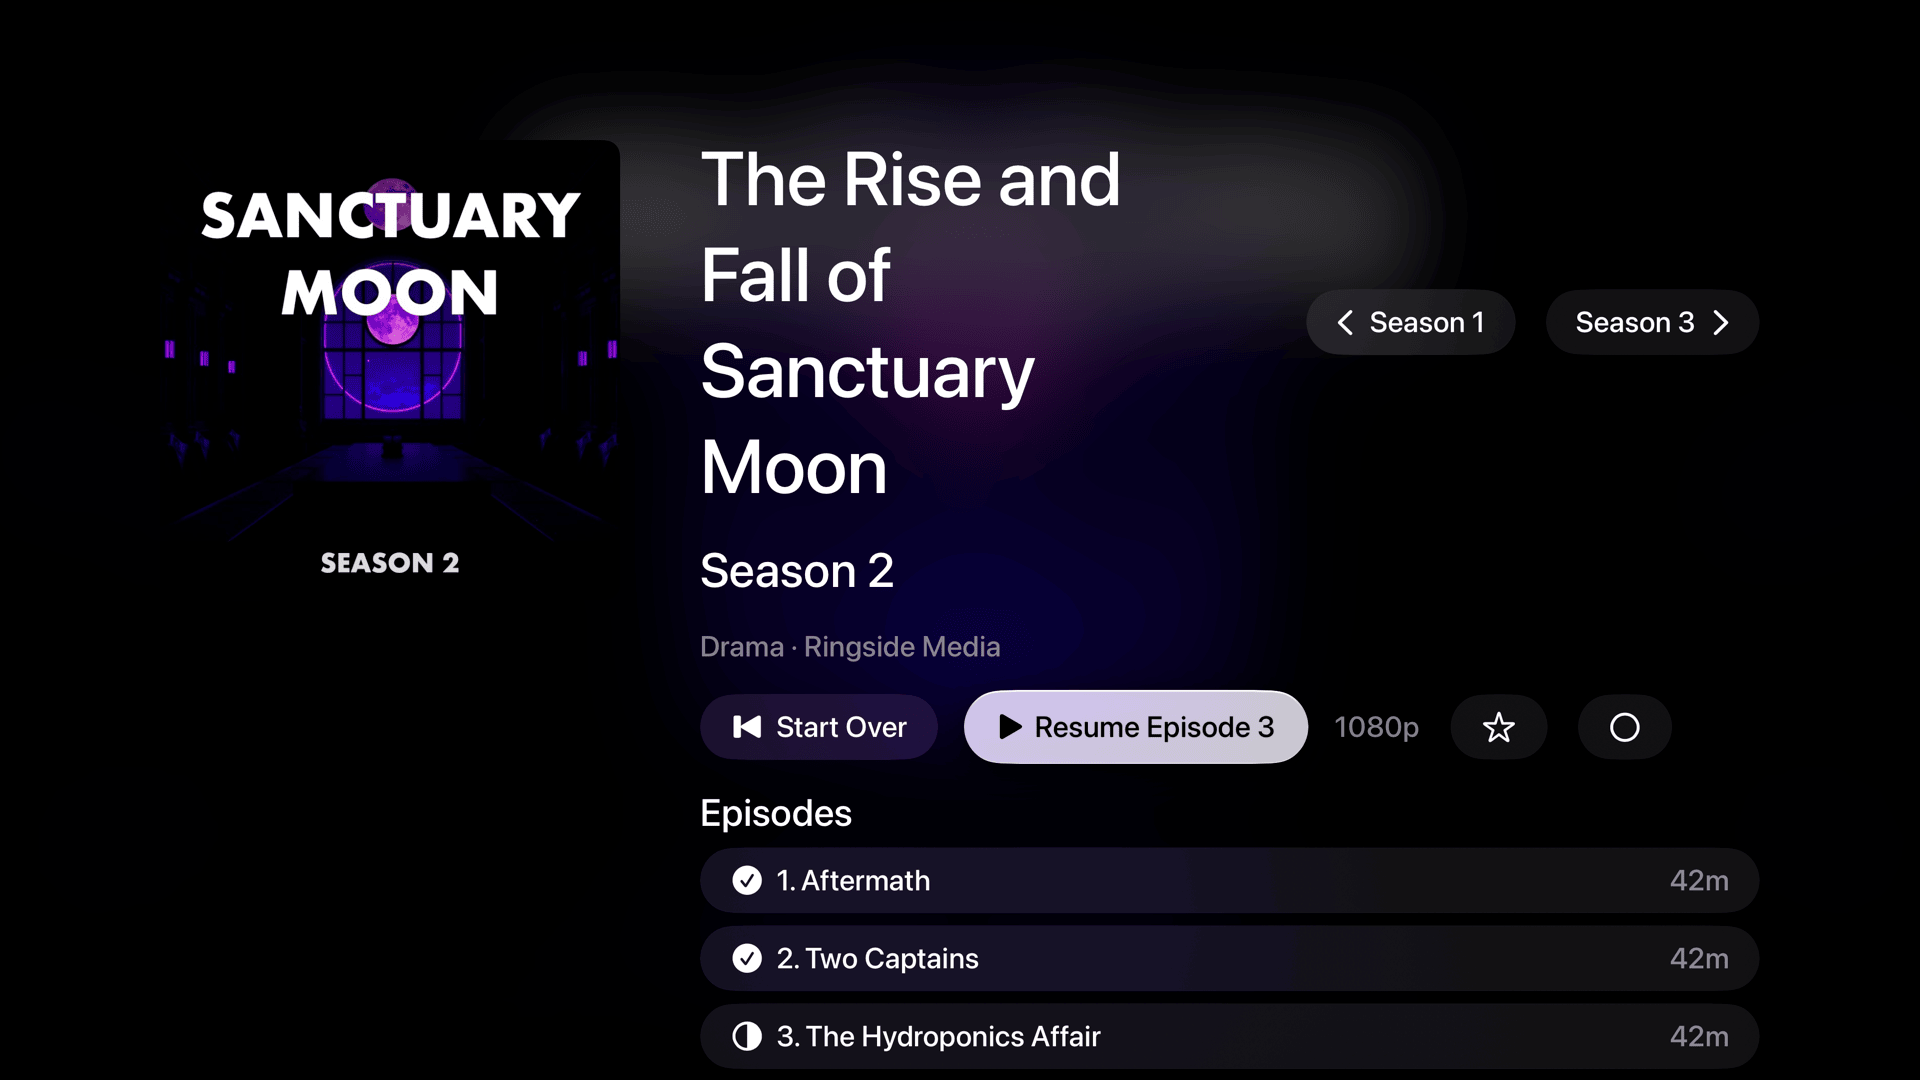
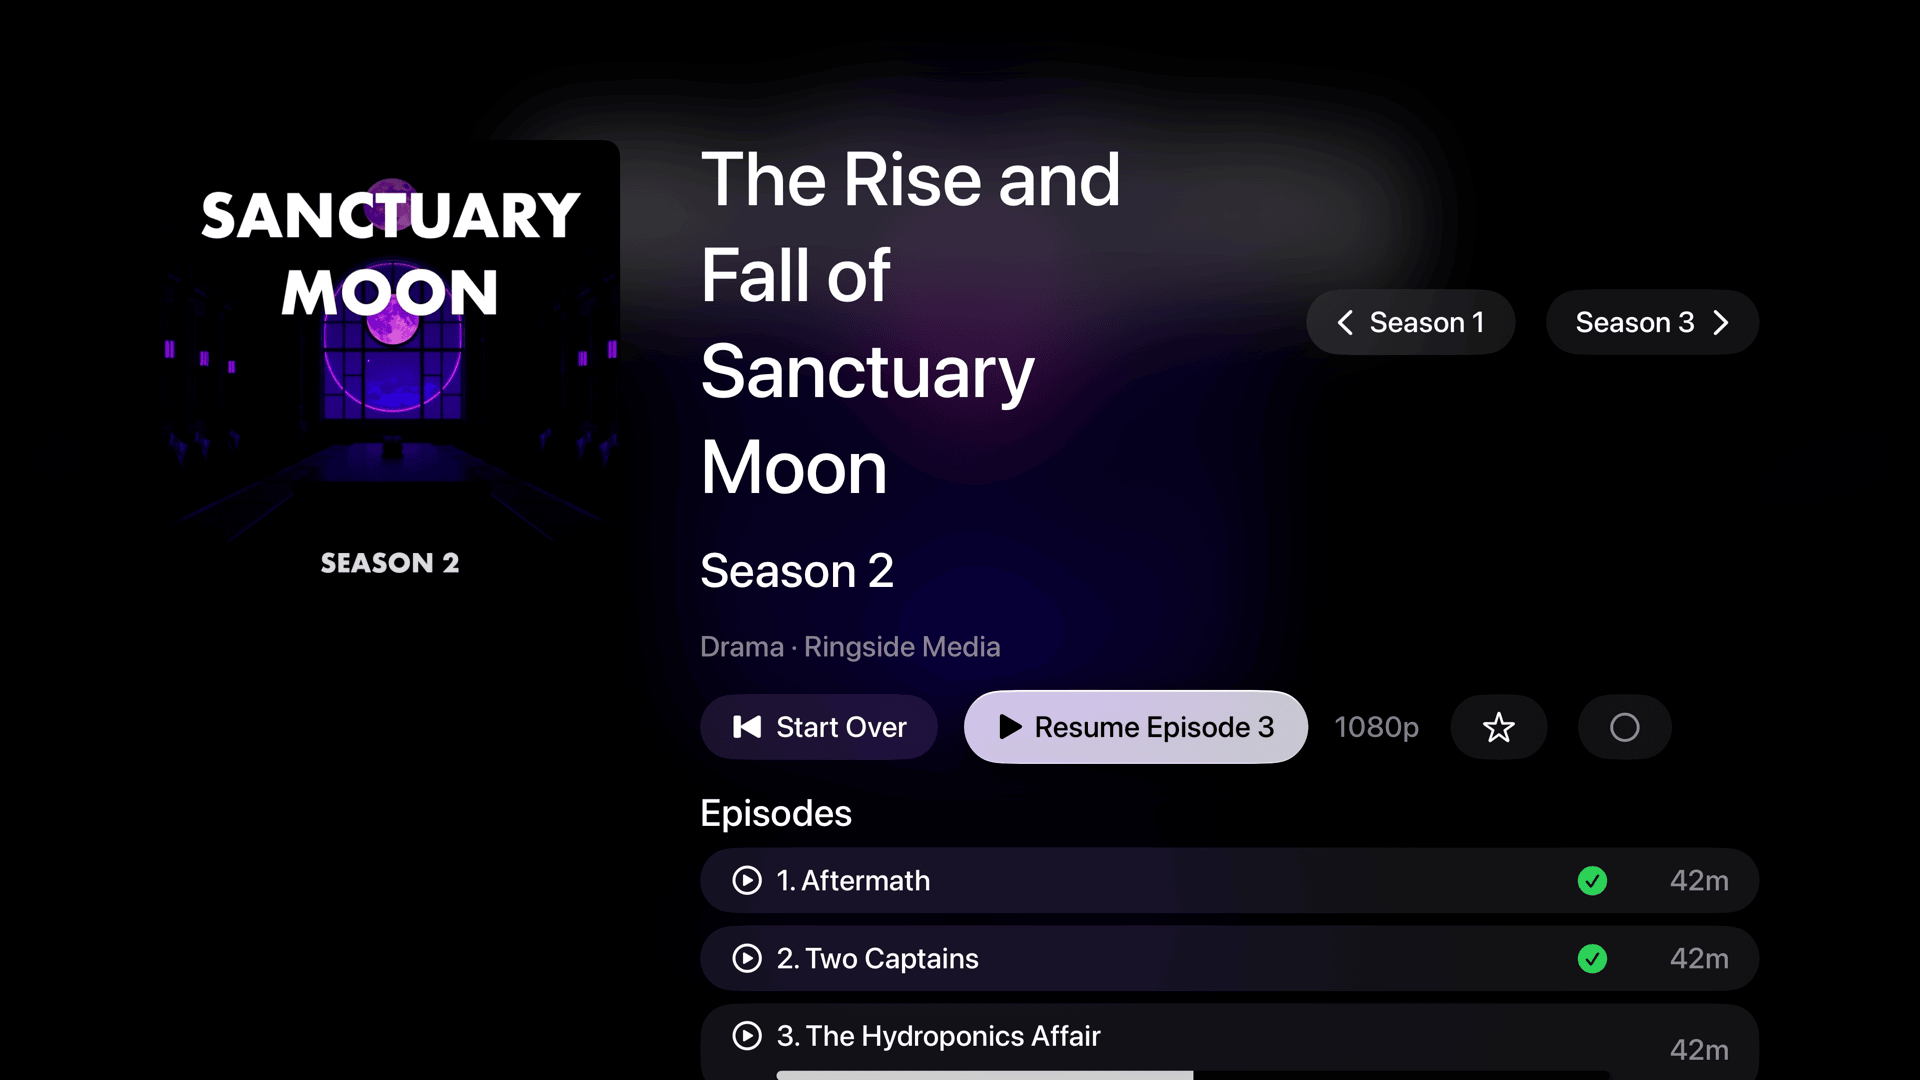
README: the hero and the loop, made by the screenshot script; the mock's movies a scene

diff --git a/tools/screenshots/hero.swift b/tools/screenshots/hero.swift
@@ -1,0 +1,53 @@
+// Sets a Mac window's shot and an Apple TV's screen into one picture, the
+// TV's in front of the window's lower right, as a screen beside it, so the
+// first look says "your own library, on the screens you have":
+// `hero OUT.png MAC.png TV.png`, on a clear ground. The TV's screen is
+// 0.42 of the window's width, in a thin black bezel with rounded corners,
+// over a soft shadow. For tools/screenshots.sh.
+import CoreGraphics
+import Foundation
+import ImageIO
+import UniformTypeIdentifiers
+
+let args = CommandLine.arguments
+guard args.count == 4 else {
+    FileHandle.standardError.write(Data("usage: hero OUT.png MAC.png TV.png\n".utf8))
+    exit(2)
+}
+func load(_ path: String) -> CGImage {
+    guard let source = CGImageSourceCreateWithURL(URL(filePath: path) as CFURL, nil),
+          let image = CGImageSourceCreateImageAtIndex(source, 0, nil) else {
+        FileHandle.standardError.write(Data("error: can't read \(path)\n".utf8))
+        exit(1)
+    }
+    return image
+}
+let mac = load(args[2]), tv = load(args[3])
+let w = Double(mac.width), h = Double(mac.height)
+// The TV's screen, its bezel, and how far it reaches past the window.
+let screenWidth = w * 0.42
+let screenHeight = screenWidth * Double(tv.height) / Double(tv.width)
+let bezel = screenWidth * 0.018
+let past = (x: w * 0.1, y: h * 0.18)
+let width = w + past.x, height = h + past.y
+guard let context = CGContext(data: nil, width: Int(width), height: Int(height), bitsPerComponent: 8, bytesPerRow: 0,
+                              space: CGColorSpace(name: CGColorSpace.sRGB)!, bitmapInfo: CGImageAlphaInfo.premultipliedLast.rawValue) else { exit(1) }
+// Core Graphics' origin is the lower left: the window at the top left.
+context.draw(mac, in: CGRect(x: 0, y: past.y, width: w, height: h))
+let set = CGRect(x: width - screenWidth - 2 * bezel, y: 0, width: screenWidth + 2 * bezel, height: screenHeight + 2 * bezel)
+context.saveGState()
+context.setShadow(offset: CGSize(width: 0, height: -w * 0.006), blur: w * 0.025, color: CGColor(gray: 0, alpha: 0.55))
+context.addPath(CGPath(roundedRect: set, cornerWidth: bezel * 1.6, cornerHeight: bezel * 1.6, transform: nil))
+context.setFillColor(CGColor(gray: 0.04, alpha: 1))
+context.fillPath()
+context.restoreGState()
+context.saveGState()
+let screen = set.insetBy(dx: bezel, dy: bezel)
+context.addPath(CGPath(roundedRect: screen, cornerWidth: bezel * 0.5, cornerHeight: bezel * 0.5, transform: nil))
+context.clip()
+context.draw(tv, in: screen)
+context.restoreGState()
+guard let image = context.makeImage(),
+      let dest = CGImageDestinationCreateWithURL(URL(filePath: args[1]) as CFURL, UTType.png.identifier as CFString, 1, nil) else { exit(1) }
+CGImageDestinationAddImage(dest, image, nil)
+exit(CGImageDestinationFinalize(dest) ? 0 : 1)

diff --git a/tools/README.md b/tools/README.md
@@ -28,7 +28,7 @@ It refuses a directory that isn't empty unless it made it (marked by a hidden `.
   * Timestream Defenders Orion: a miniseries, its cover square.
   * Lineages of the Sun: two seasons, both with the series' cover.
   * Ring Station Tonight: a dated series, `Ring Station Tonight 2025-11-03 720p.mp4`, so a season a year, its cover square.
-* **Videos:** silent H.264 MP4s, each a still of its title's color for a believable length (a movie's 95 to 126 minutes, an episode's 22 to 55). At one frame a second, each is under 250 KB, and progress, which isn't kept in a video's first 10 seconds, can stand partway. Each is tagged as describing reads MP4s (`©nam`, `desc`, `ldes`, `©gen`, `©day`, `tvsh`, `tvnn`). Its date is its release or air date, so Date Added and Date Modified sort the shelves. FFmpeg can't write the sort tags (`sonm`, `sosn`), so none sorts by another name.
+* **Videos:** silent H.264 MP4s, each one still for a believable length (a movie's 95 to 126 minutes, an episode's 22 to 55): a movie's, a 720p band of its art from `mock-art/`, so playing one looks like a scene; an episode's, its title's color. At one frame a second, and a constant quantizer (x264's rate control otherwise adds detail to a still frame after frame, ten times the bytes), a movie's is about a megabyte and an episode's under 250 KB, and progress, which isn't kept in a video's first 10 seconds, can stand partway. Each is tagged as describing reads MP4s (`©nam`, `desc`, `ldes`, `©gen`, `©day`, `tvsh`, `tvnn`). Its date is its release or air date, so Date Added and Date Modified sort the shelves. FFmpeg can't write the sort tags (`sonm`, `sosn`), so none sorts by another name.
 * **Covers:** the title set large over each title's art from [mock-art/](mock-art/prompts.md) (made with FLUX.1 [schnell], one per title and season, text-free, their prompts and seeds recorded there), darkened under the type; where there's none, a gradient with a pale disc; portrait (2:3) or square, never landscape, as JPEGs named as Plex, Jellyfin, and Kodi name them (a movie's folder's `poster.jpg`, `season01-poster.jpg`, a season's or a series' `poster.jpg`).
 * **`--data DATA`** also makes a data directory, building the command-line app if need be. It founds a library, serves the folder on `--port` (8642), adds it as a source, and crawls it. Then it sets progress: Sanctuary Moon watched into its second season, partway through its third episode; Hostile Survey and an episode of Worldhoppers partway; Wormhole Drift and all of Timestream Defenders Orion watched. And it makes lists through the web client's API, as the command-line app makes none: the Watchlist (two titles, a season, and two placeholders, a Worldhoppers season 3 and a movie, Station Siege), and Favorites. It prints how to serve it again.
 
@@ -43,12 +43,15 @@ A debug build runs on a copy of its data, `SIMCTL_CHILD_CINEMATHEQUE_DATA=/tmp/c
 
 ## Screenshots
 
-[screenshots.sh](screenshots.sh) takes the README's pictures of every player, in dark and light appearance, into [docs/screenshots](../docs/screenshots): `tools/screenshots.sh`, or some of `mac`, `tv`, `iphone`, and `web`. It makes a fresh mock library (above), serves it on port 8649 (so a developer's 8642 is left alone), and builds the apps, Debug, for their launch options ([AGENTS.md](../AGENTS.md#debugging)).
+[screenshots.sh](screenshots.sh) takes the README's pictures of every player, in dark and light appearance, into [docs/screenshots](../docs/screenshots): `tools/screenshots.sh`, or some of `mac`, `tv`, `iphone`, and `web`; `video` (only when named, as it takes longer) also records the loop. It makes a fresh mock library (above), serves it on port 8649 (so a developer's 8642 is left alone), and builds the apps, Debug, for their launch options ([AGENTS.md](../AGENTS.md#debugging)).
 
 * **The iPhone** (an iPhone 17 simulator): Home, the Series tab, and that season's page, side by side by [side.swift](screenshots/side.swift), each with the iPhone's rounded corners, as one tall screen stood far taller than the others in the README's row; its status bar at 9:41.
 * **The Apple TV** (an Apple TV 4K, 3rd generation, simulator, scaled to 1080p): a season's page, opened by its Top Shelf link, as a person's press opens it, Resume focused (pushed by `CINEMATHEQUE_SELECT` at launch, focus went to Start Over).
 * **The web client:** Movies, 960×720 points, rendered by [web.swift](screenshots/web.swift) in WebKit once every cover on screen has loaded, in a clear window on screen, as WebKit runs no animation frames off screen.
 * **The Mac,** in a terrarium VM (`macos-27.2-quiet`, 4 GB; the command is `$TERRARIUM`, else `terrarium`): the Series shelf, a band open, the inspector on that season. It answers the Local Network prompt whenever it comes, shooting again if it was up, sizes the window by dragging it as a person would (SwiftUI sizes it again after the app could), and crops the shot to the window, its corners clear, by [frame.swift](screenshots/frame.swift), finding it by [windows.swift](screenshots/windows.swift) in the guest (`screencapture` can't there, without Screen Recording permission). A Retina display (`--retina`), 1440×900 points, as the others are 2× or more.
+
+* **The hero,** when the Mac's and the Apple TV's are both taken: the Mac's window, and in front of its lower right, the Apple TV's Home in a thin black bezel, by [hero.swift](screenshots/hero.swift).
+* **The loop** (`video`): Hold the Corridor played on the Mac, skipped ahead 30 seconds, and left (Escape), then, once the Mac's sync has reached it, resumed on the Apple TV, from its Home. The Apple TV's device is another of the mock person's, paired by the command-line app and caught up from the Mac's before either app starts; the Mac reaches it by DNS-SD, or by the host's address on the VM's network, added. The Mac is driven at a person's pace (the pointer gliding, pauses between steps) in a 16:9 window, recorded by terrarium's `record`; the Apple TV, its remote out of a script's reach, plays it by its Top Shelf link (`&play=1`), recorded by `simctl io recordVideo`. Each half is cut to 1280×720 at 15 frames a second, fading in from black and out to it (half a second each, as the apps fade playing), and the two are made a looping, lossy WebP by `img2webp` (at quality 85, as at lower ones it takes a fade's small changes for none, leaving blocks of the frames before) (GitHub shows one inline, not a video committed beside the README); dark appearance only.
 
 A shot is taken once the screen holds still for three frames in a row, not after a fixed wait. Each PNG is squeezed by `pngquant` (to a palette, about a quarter the bytes, alike at a README's sizes), then `oxipng`, each if it's installed (`brew install pngquant`).
 

diff --git a/DEVELOPMENT.md b/DEVELOPMENT.md
@@ -10,7 +10,7 @@ When each routine task was last done, and the commit it looked at (or made), so 
 | --- | --- | --- | --- |
 | Security audit | 2026-11-20 | `8d96a14` | Its fixes through `8fc7843`; the limits it left under [What members are trusted with](#sync) |
 | Code review | 2026-11-22 | `1f012f1` | Since the audit; its high and medium findings fixed through `a18e45d`, its low ones since, one left as a limit under [What members are trusted with](#sync) |
-| Screenshots | 2026-11-23 | `710d4dc` | [tools/screenshots.sh](tools/screenshots.sh); the Mac's at Retina resolution since then |
+| Screenshots | 2026-11-23 | `773bebf` | [tools/screenshots.sh](tools/screenshots.sh): every player, the hero, and the loop (`video`) |
 
 ## Practice
 
@@ -37,10 +37,8 @@ How work keeps the code from growing faster than it earns; soften these where th
   * **Matching:** a companion that makes the file names it from the placeholder's key, as a dated archive's names are (see [README.md](README.md#naming)), so it matches for certain; one that only watches leaves it to the usual match as the file comes.
 * **Sorting** (built for the Mac and the web client; see [AGENTS.md](AGENTS.md)). To come: choosing an order on the Apple TV, which sorts by each shelf's default; and, for Date Added, files' creation times from this app's own server (in its `INDEX` and listings), a better guess than modification times for what a first crawl finds.
 * **Settings:** when each device was last seen.
-* **Showing it in the README** (the row of four built; see [tools/README.md](tools/README.md#screenshots)): pictures of the real apps, on the mock library of [tools/](tools/README.md) (serials named after those in Murderbot's feeds, every text original), never anyone's own library, so they can be regenerated as the apps change:
+* **Showing it in the README** (the hero, the row of four, and the loop built; see [tools/README.md](tools/README.md#screenshots)): pictures of the real apps, on the mock library of [tools/](tools/README.md) (serials named after those in Murderbot's feeds, every text original), never anyone's own library, so they can be regenerated as the apps change:
   * **Sanctuary Moon at length:** at least 397 episodes in the mock library (now three seasons and a special), as many as Murderbot has watched, so its seasons and episode lists look lived in. At about 130 KB a video, some 50 MB and an FFmpeg run each, as each file carries its own tags.
-  * **A hero** at the README's top: the Mac's grid with the inspector open on a season partway through, beside an Apple TV's home page, in one image, so the first look says "your own library, on the screens you have".
-  * **One moving picture:** a silent screen recording, 20 seconds or less, of stopping a movie partway on the Mac and resuming it on the Apple TV, the sync story in one take; as a looping MP4 or WebP (GitHub shows those inline) under 5 MB. It fades in from black at its start and out to black at its end (half a second each, as the apps fade playback), so each loop's seam is a dip to black, not a jump cut.
   * **Decided:** screenshots are committed, versioned with the README; dark appearance first, light too, each image twice, shown by a `<picture>` with `prefers-color-scheme`, dark the default; and the hero made by the script too, driven at a person's pace (pauses as a person's between steps, scrolling and focus moving as a hand would), so it looks used, not staged.
 * **Heuristics review:** check for rules that grew, or got entrenched, to fit patterns in a library or the test data that no one specified or intended (a folder's stray naming, a deprecated quality folder, a generator's quirk), where renaming a folder would do. In the parser: Kodi's compact codes read from the enclosing folder, a numberless file extending a series' name taken as a special, and dots between digits kept. In qualities' short names: options shown only to tell two apart. In the apps: a season of 1000 or more read as a year, nothing said of a first season alone, and a series' year from its folder's name. Each stays only if it serves a convention someone follows on purpose (Plex's, Jellyfin's, Kodi's, or dated archives', as [README.md](README.md#naming) shows them), as the year shown only for series sharing a name went (Entourage (2004) was a folder to rename).
 * **One structure, each platform's chrome** (proposed): what players show is shared; how they reach it is each platform's own, in three layouts: a home page (Apple TV), a sidebar (Mac, and the web client wide), and a tab bar (iPhone, and the web client narrow). Sketches are interpretations, not mockups: [the four together](docs/design/home.svg), and each platform's flow ([Apple TV](docs/design/flow-tvos.svg), [Mac](docs/design/flow-mac.svg), [web](docs/design/flow-web.svg), [iPhone](docs/design/flow-iphone.svg)); and [how covers' shapes are laid out](docs/design/tiles.svg): grids give every cell the column's width, a portrait season fit whole in its square; carousels give every cover one height, each its own width, as a carousel's gaps never line up across rows. The sketches' buttons name their actions in words, to be read; built, they're symbols with tooltips, as the apps' controls are, with words kept for Settings' buttons, as the system's.
@@ -62,6 +60,7 @@ How work keeps the code from growing faster than it earns; soften these where th
   * Tests that reach this Mac by its own `.local` name through mDNS (copy racing's in the core, and [cli/test.sh](cli/test.sh)'s discovery) fail while mDNS doesn't answer for it, as after VMs come and go, and pass again once it does.
   * On the Mac, search collapses to a button for a moment as the inspector opens: while the inspector is shown, SwiftUI puts search in its section of the toolbar, which starts narrow as it animates, and `DefaultToolbarItem(kind: .search)` doesn't keep it in the grid's.
   * macOS's Local Network privacy blocks the command-line app from the LAN (`HostUnreachable`) when it runs as a launch agent or is started by another app, so the command-line app can't run in the background (its `agent` command was removed for that); Terminal and SSH sessions and system daemons are exempt (TN3179). The fix is to run it from a signed app bundle whose `Info.plist` says why it needs the local network, so macOS can ask once (the Mac app serves only while it runs). Until then, a test device runs in Terminal.
+  * `person pair CODE URL` (and `member pair`) needs the URL's `/pair` path, as the offer prints it apart from its port; given the device's address alone, it fails as `BadStatus`, not in words. It should add `/pair` itself, and say what went wrong.
 
 ## Libraries
 

diff --git a/README.md b/README.md
@@ -4,6 +4,8 @@ Cinematheque is a video library for your household. It catalogs the movies and T
 
 > **Status:** early, at version 0.1 (see [Status](#status)).
 
+<p align="center"><picture><source media="(prefers-color-scheme: light)" srcset="docs/screenshots/hero-light.png"><img src="docs/screenshots/hero-dark.png" alt="The Mac app's Series shelf, the inspector on a season partway through, and in front of it, the Apple TV app's Home" width="820"></picture></p>
+
 <table><tr>
 <td align="center"><a href="docs/screenshots/mac-dark.png"><picture><source media="(prefers-color-scheme: light)" srcset="docs/screenshots/mac-light.png"><img src="docs/screenshots/mac-dark.png" alt="The Mac app: the Series shelf, a series’ seasons open below it, and the inspector on a season partway through" height="120"></picture></a><br><sub>Mac</sub></td>
 <td align="center"><a href="docs/screenshots/tv-dark.png"><picture><source media="(prefers-color-scheme: light)" srcset="docs/screenshots/tv-light.png"><img src="docs/screenshots/tv-dark.png" alt="The Apple TV app: a season’s page, Resume focused, over its blurred cover" height="120"></picture></a><br><sub>Apple TV</sub></td>
@@ -30,7 +32,9 @@ Planned beyond them: metadata from outside your files, a transcoder, and a list'
 
 ## How it works
 
-Every device keeps its own copy of the catalog, and of what you've watched, but not the videos. So each one browses offline, and catches up with the others when it can reach them.
+Every device keeps its own copy of the catalog, and of what you've watched, but not the videos. So each one browses offline, and catches up with the others when it can reach them. Stop a movie on the Mac, and the Apple TV resumes it where you left off:
+
+<p align="center"><img src="docs/screenshots/loop.webp" alt="A movie played on the Mac, skipped ahead, and stopped; then on the Apple TV, it resumes from there" width="640"></p>
 
 <p align="center"><img src="docs/how-it-works.svg" alt="The catalog syncs directly among an Apple TV, a Mac or Linux computer, and an iPhone, with no server in the middle; each plays videos straight from a NAS, and from folders the Mac or Linux computer shares" width="640"></p>
 

diff --git a/CHANGELOG.md b/CHANGELOG.md
@@ -6,6 +6,7 @@ All notable changes to Cinematheque are recorded here.
 
 * Apple TV and iPhone: resuming seeks exactly, as the Mac's does, rather than to the keyframe before, which in a file with sparse keyframes was minutes early.
 * README: a Status section, player by player, and a quickstart for serving the library to browsers.
+* README: a hero picture of the Mac and the Apple TV together, and a looping recording of a movie stopped on the Mac and resumed on the Apple TV, both made by `tools/screenshots.sh` (the loop with `video`); the mock library's movies play a scene of their art.
 * Apps and web client: the star and the download mark are drawn one way everywhere too: the Lists button's star yellow when on a list, as tiles', the Mac's rows' download arrow blue, as its tiles', and the Mac's series inspector's seasons marked as their tiles.
 * Apps and web client: watched is marked one way everywhere, a green check at the end of a row's line as on tiles, on episodes', versions', and seasons' rows alike, and partway a thin bar; the Apple TV's and the iPhone's half-filled circles, the Mac's grey check in place of Play, and the web client's dim check after the name are gone.
 * README: the Mac's screenshots at Retina resolution, as the others are, from a terrarium VM's Retina display.
